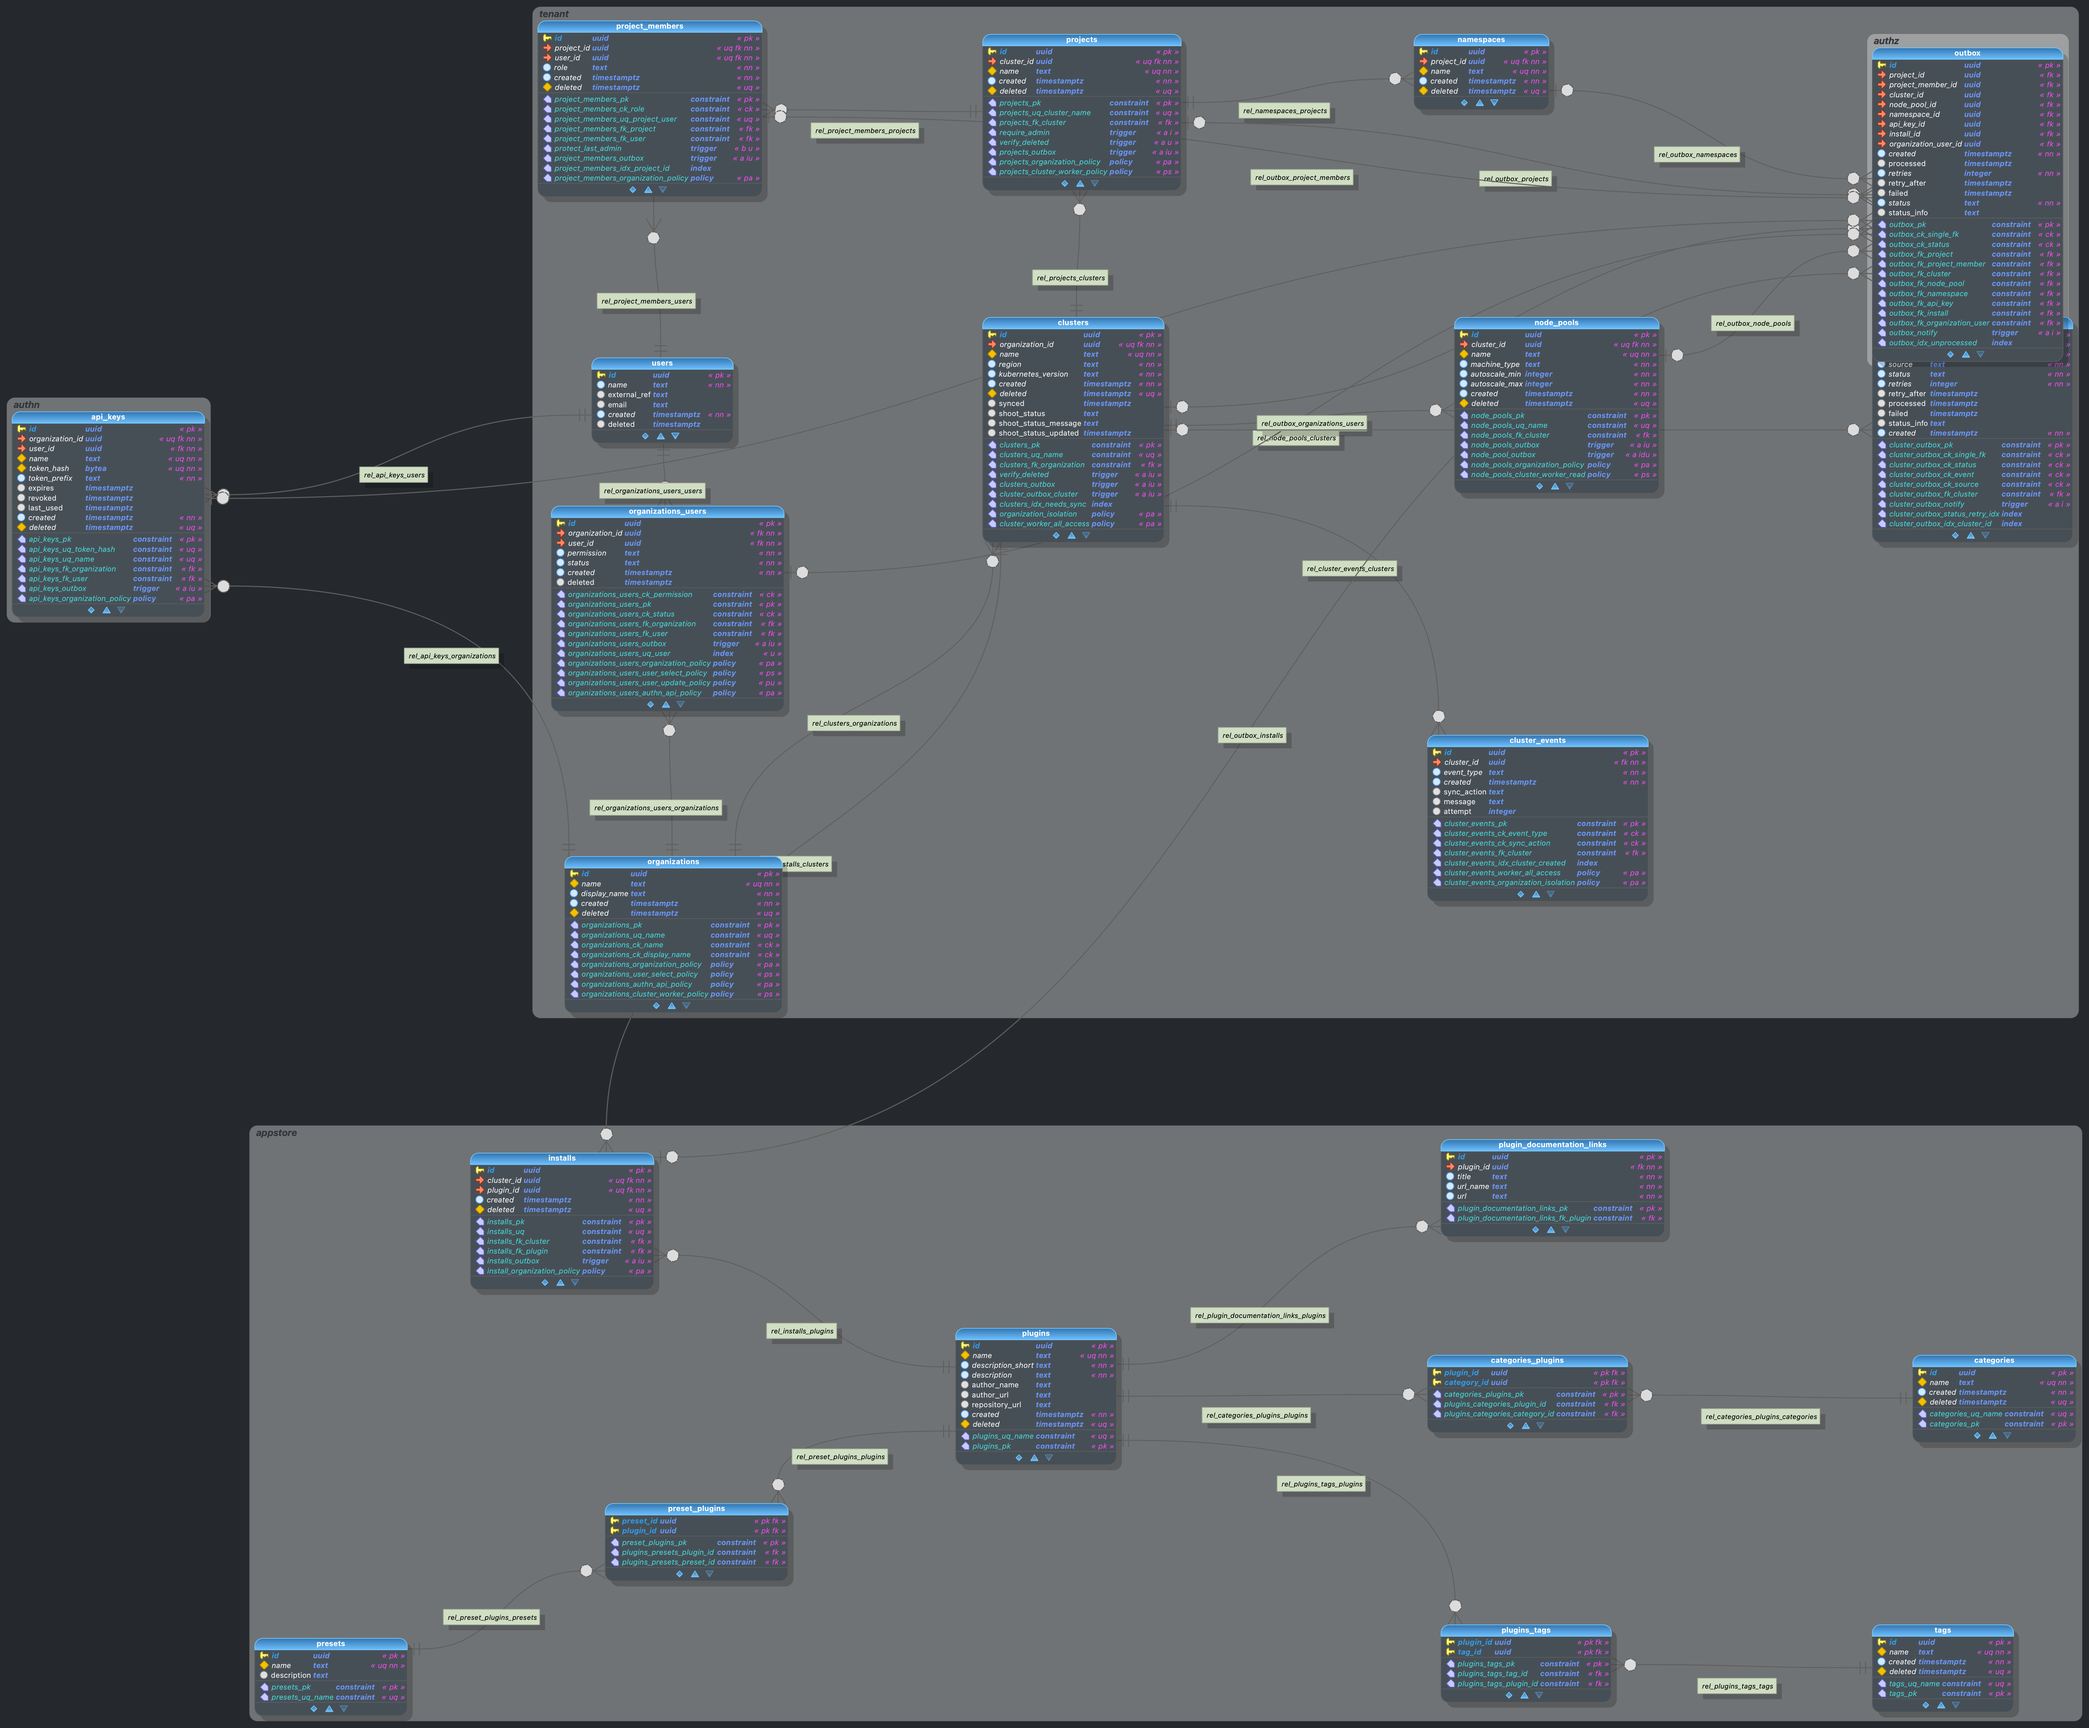
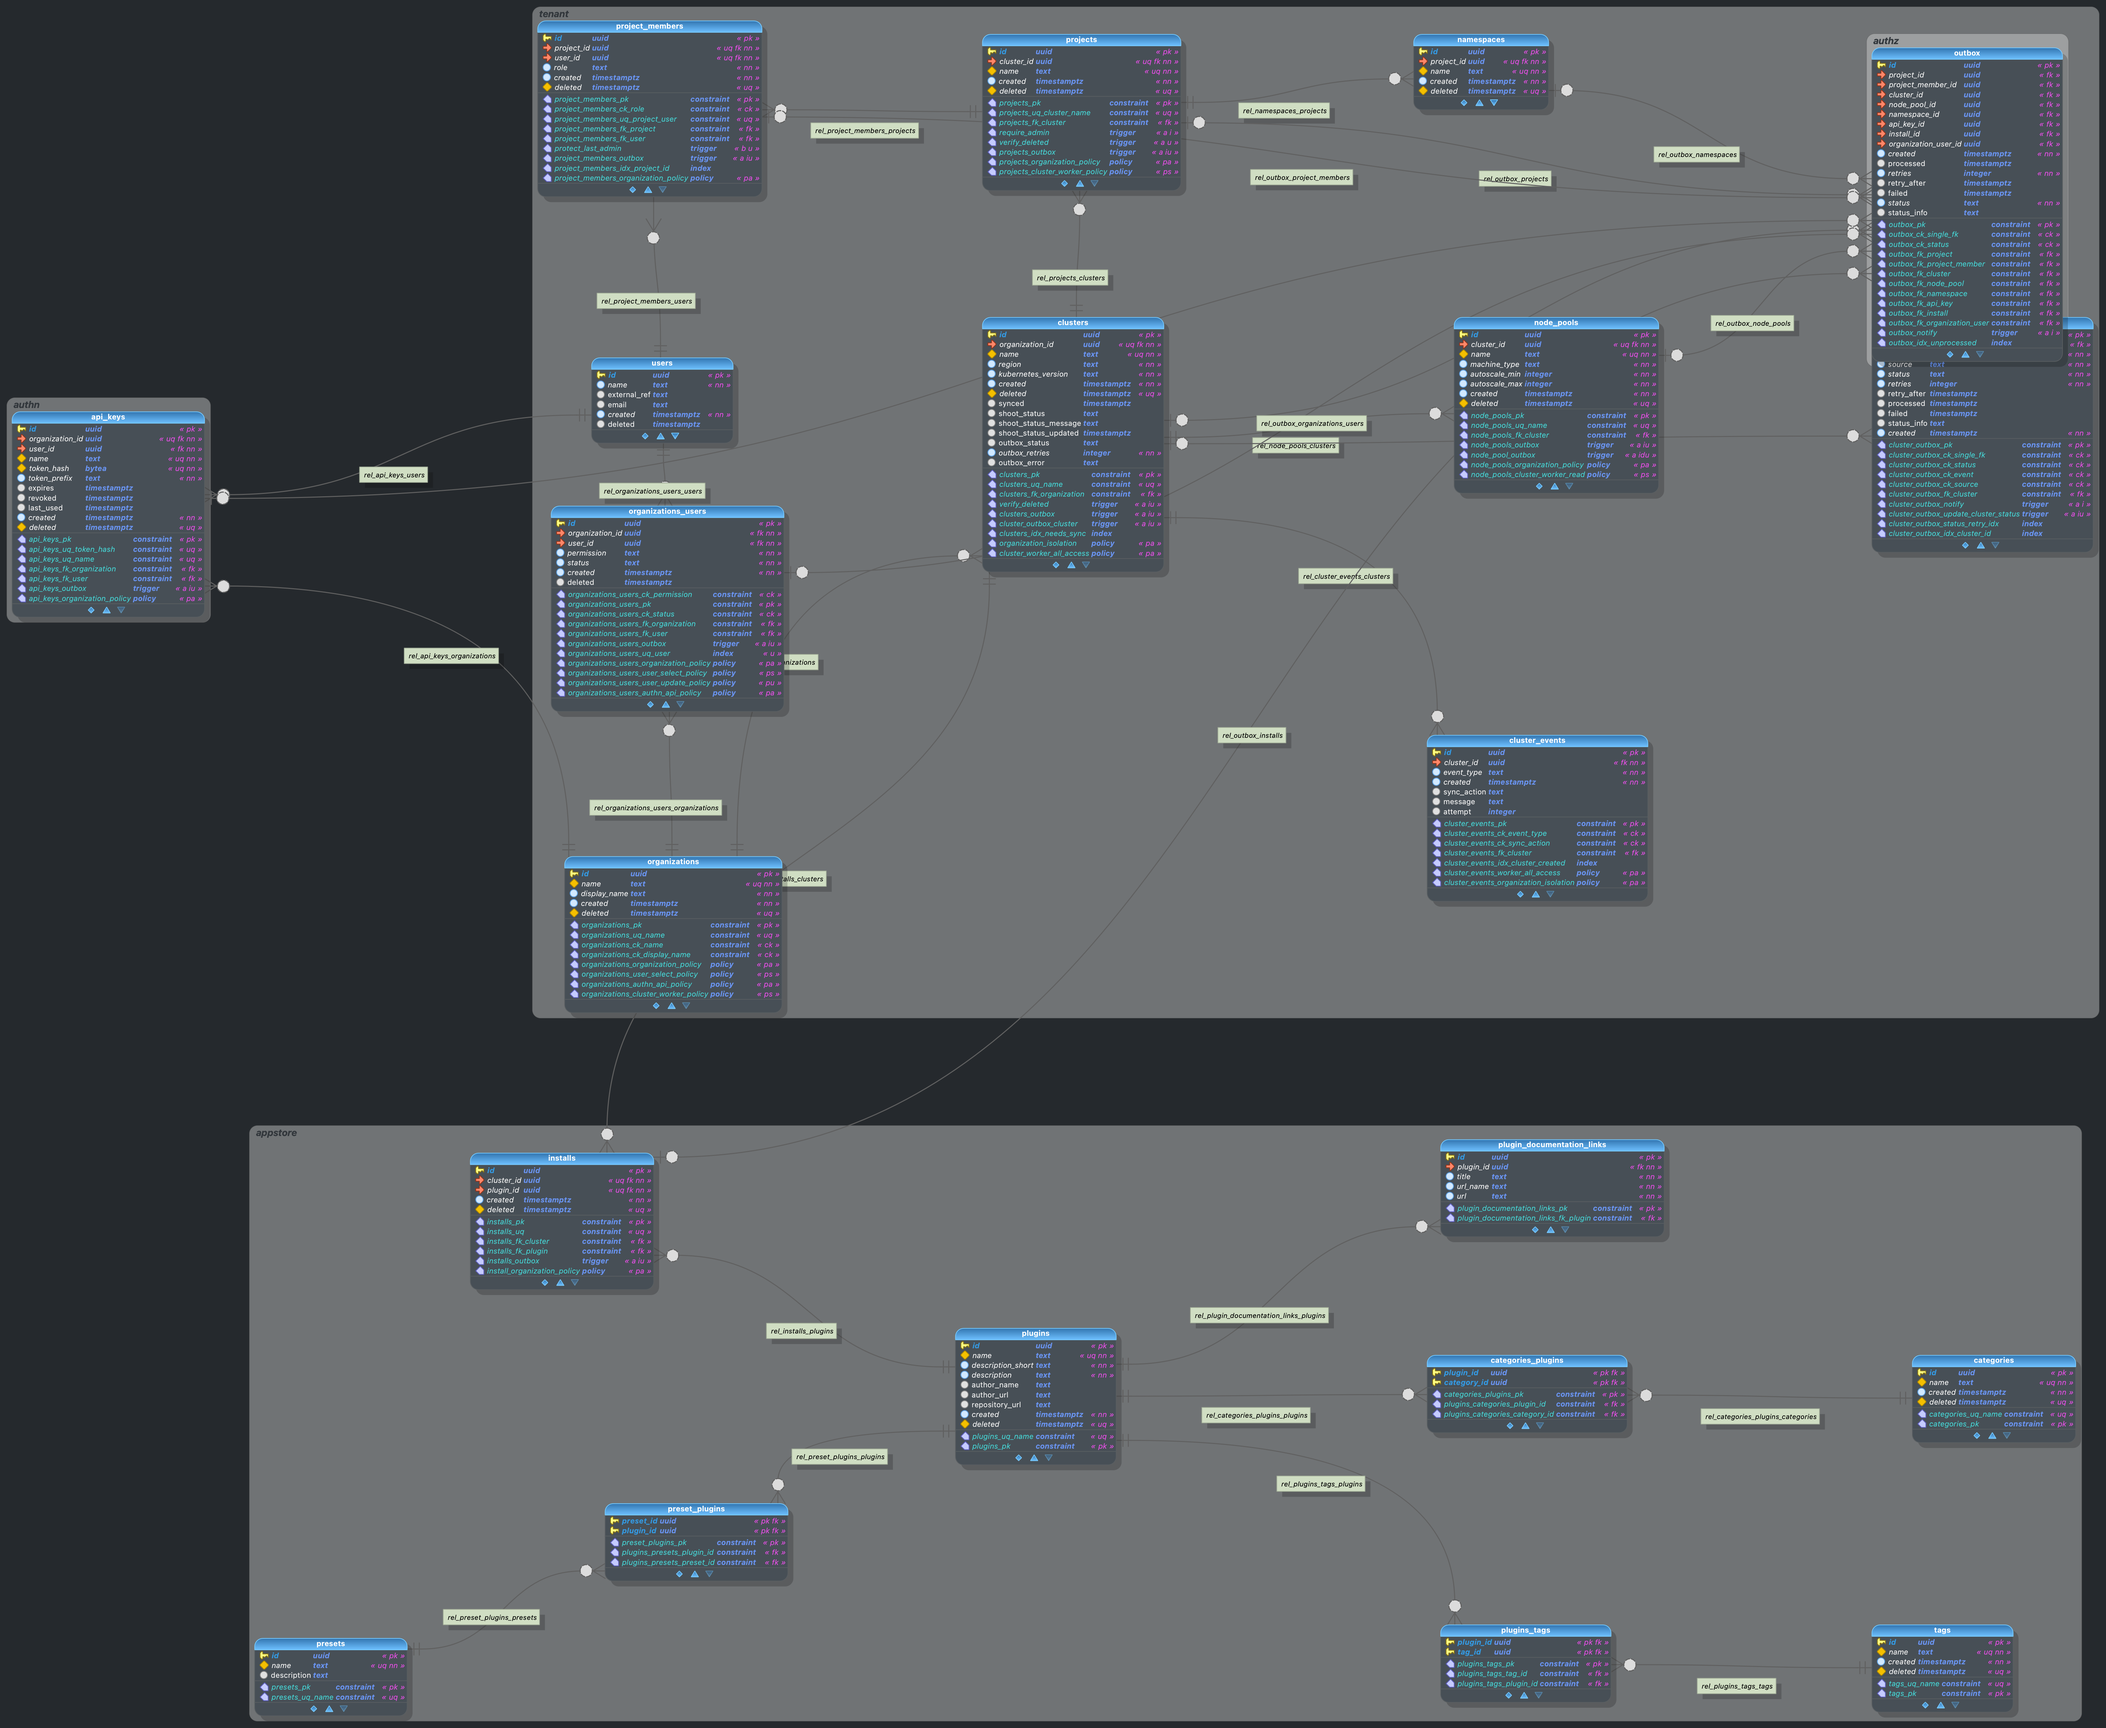
feat: descriptive sync event messages
Pass outbox event metadata (event, source) through to the sync handler
so sync_succeeded events include human-readable messages like "Cluster
created" or "Node pool updated" instead of empty messages.

Also updates the node_pool_outbox_trigger to use TG_OP-based event
detection and a dedicated 'node_pool' source, allowing the frontend to
distinguish cluster vs node pool sync events.

diff --git a/cluster-worker/pkg/handler/cluster/sync.go b/cluster-worker/pkg/handler/cluster/sync.go
@@ -14,6 +14,7 @@ import (
 
 	"github.com/fundament-oss/fundament/cluster-worker/pkg/client/gardener"
 	db "github.com/fundament-oss/fundament/cluster-worker/pkg/db/gen"
+	"github.com/fundament-oss/fundament/cluster-worker/pkg/handler"
 	"github.com/fundament-oss/fundament/common/dbconst"
 )
 
@@ -44,7 +45,7 @@ func New(pool *pgxpool.Pool, gardenerClient gardener.Client, logger *slog.Logger
 
 // Sync processes a single cluster outbox row by syncing the cluster to Gardener.
 // Returns nil to mark the row as processed, or an error to trigger outbox retry.
-func (h *Handler) Sync(ctx context.Context, id uuid.UUID) error {
+func (h *Handler) Sync(ctx context.Context, id uuid.UUID, sc handler.SyncContext) error {
 	// 1. Look up cluster
 	cluster, err := h.queries.ClusterGetForSync(ctx, db.ClusterGetForSyncParams{ClusterID: id})
 	if err != nil {
@@ -80,7 +81,7 @@ func (h *Handler) Sync(ctx context.Context, id uuid.UUID) error {
 			return fmt.Errorf("delete shoot: %w", err)
 		}
 
-		h.createSyncSucceededEvent(ctx, cluster.ID, syncAction)
+		h.createSyncSucceededEvent(ctx, cluster.ID, syncAction, syncMessage(sc.Event, sc.Source))
 		h.logger.Info("synced cluster deletion to gardener", "cluster_id", cluster.ID, "name", cluster.Name)
 		return nil
 	}
@@ -126,7 +127,7 @@ func (h *Handler) Sync(ctx context.Context, id uuid.UUID) error {
 	}
 
 	// 7. Success
-	h.createSyncSucceededEvent(ctx, cluster.ID, syncAction)
+	h.createSyncSucceededEvent(ctx, cluster.ID, syncAction, syncMessage(sc.Event, sc.Source))
 	h.logger.Info("synced cluster to gardener", "cluster_id", cluster.ID, "name", cluster.Name)
 	return nil
 }
@@ -432,12 +433,32 @@ func (h *Handler) createSyncFailedEvent(ctx context.Context, clusterID uuid.UUID
 }
 
 // createSyncSucceededEvent creates a sync_succeeded event.
-func (h *Handler) createSyncSucceededEvent(ctx context.Context, clusterID uuid.UUID, action dbconst.ClusterEventSyncAction) {
+func (h *Handler) createSyncSucceededEvent(ctx context.Context, clusterID uuid.UUID, action dbconst.ClusterEventSyncAction, message string) {
 	if _, err := h.queries.ClusterCreateSyncSucceededEvent(ctx, db.ClusterCreateSyncSucceededEventParams{
 		ClusterID:  clusterID,
 		SyncAction: pgtype.Text{String: string(action), Valid: true},
-		Message:    pgtype.Text{},
+		Message:    pgtype.Text{String: message, Valid: message != ""},
 	}); err != nil {
 		h.logger.Warn("failed to create sync_succeeded event", "cluster_id", clusterID, "error", err)
+	}
+}
+
+// syncMessage builds a human-readable message from the outbox event and source.
+func syncMessage(event, source string) string {
+	entity := "Cluster"
+	if source == "node_pool" {
+		entity = "Node pool"
+	}
+	switch event {
+	case "created":
+		return entity + " created"
+	case "updated":
+		return entity + " updated"
+	case "deleted":
+		return entity + " deleted"
+	case "reconcile":
+		return entity + " reconciled"
+	default:
+		return ""
 	}
 }

diff --git a/cluster-worker/pkg/handler/handler.go b/cluster-worker/pkg/handler/handler.go
@@ -14,13 +14,19 @@ const (
 	EntityCluster EntityType = "cluster"
 )
 
+// SyncContext carries metadata from the outbox row to the sync handler.
+type SyncContext struct {
+	Event  string // created, updated, deleted, reconcile
+	Source string // trigger, reconcile, manual, node_pool
+}
+
 // SyncHandler processes an outbox row for a specific entity type.
 // Implementations must be idempotent — the same ID may be delivered more than once
 // (retries, reconciliation). Handlers must also gracefully handle cases where the
 // entity referenced by the outbox row might no longer exist (e.g., deleted
 // between outbox insertion and processing). Return nil to mark the row as processed.
 type SyncHandler interface {
-	Sync(ctx context.Context, id uuid.UUID) error
+	Sync(ctx context.Context, id uuid.UUID, sc SyncContext) error
 }
 
 // StatusHandler checks the current state of synced objects and updates the DB.

diff --git a/common/dbconst/enums.go b/common/dbconst/enums.go
@@ -41,6 +41,7 @@ const (
 	ClusterOutboxSource_Trigger   ClusterOutboxSource = "trigger"
 	ClusterOutboxSource_Reconcile ClusterOutboxSource = "reconcile"
 	ClusterOutboxSource_Manual    ClusterOutboxSource = "manual"
+	ClusterOutboxSource_NodePool  ClusterOutboxSource = "node_pool"
 )
 
 // ClusterOutboxStatus represents valid values for tenant.cluster_outbox.status.

diff --git a/cluster-worker/pkg/outbox/worker.go b/cluster-worker/pkg/outbox/worker.go
@@ -215,7 +215,7 @@ func (w *Worker) processNextRow(ctx context.Context) (hasNext bool, err error) {
 		return true, nil
 	}
 
-	err = h.Sync(ctx, entityID)
+	err = h.Sync(ctx, entityID, handler.SyncContext{Event: row.Event, Source: row.Source})
 	if err != nil {
 		markErr := w.handleRowError(ctx, w.queries, &row, err)
 		if markErr != nil {

diff --git a/common/dbversion/version.go b/common/dbversion/version.go
@@ -1,4 +1,4 @@
 package dbversion
 
 // LatestVersion is the latest version for the db migrations.
-const LatestVersion = 9
+const LatestVersion = 10
